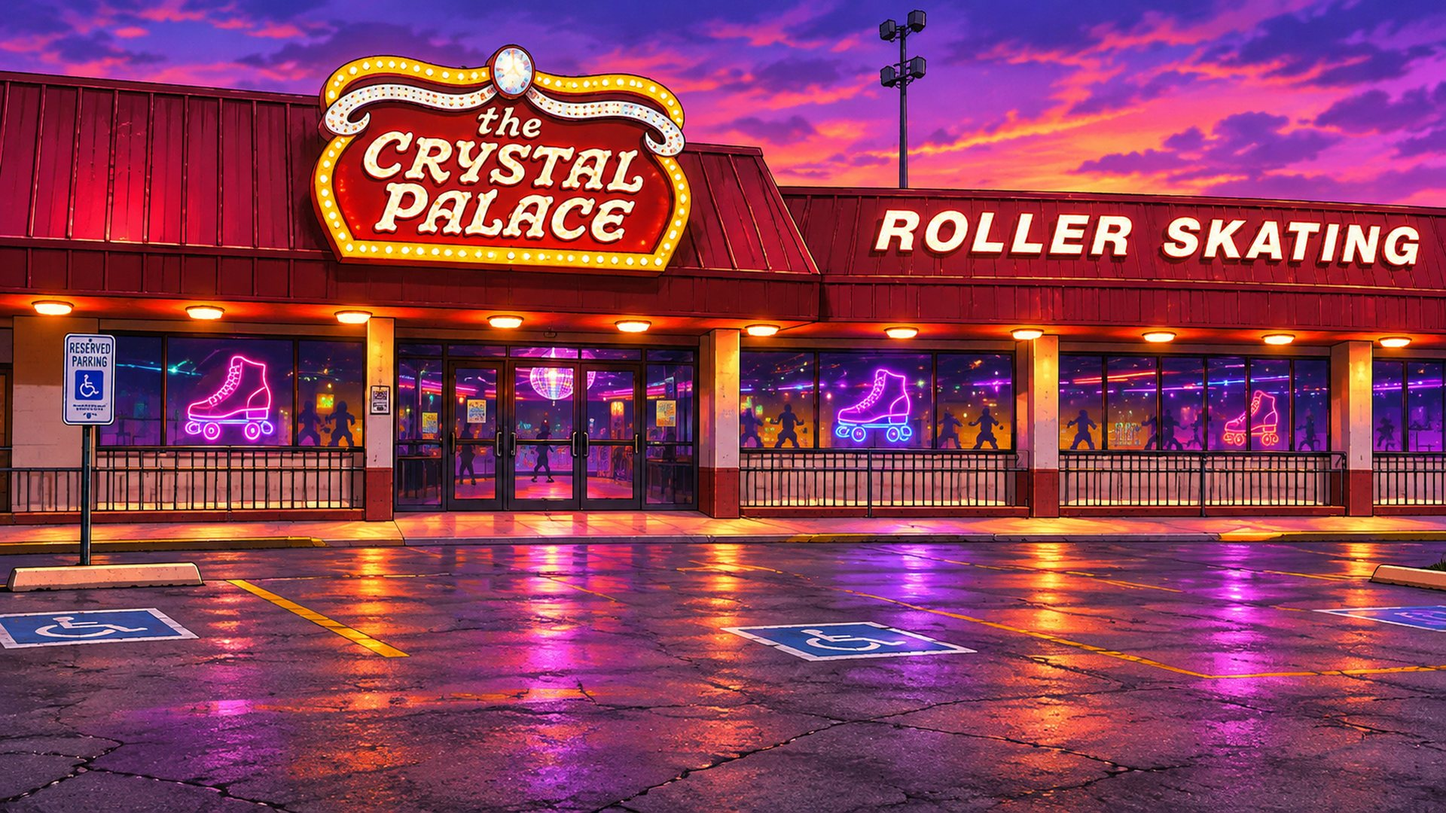
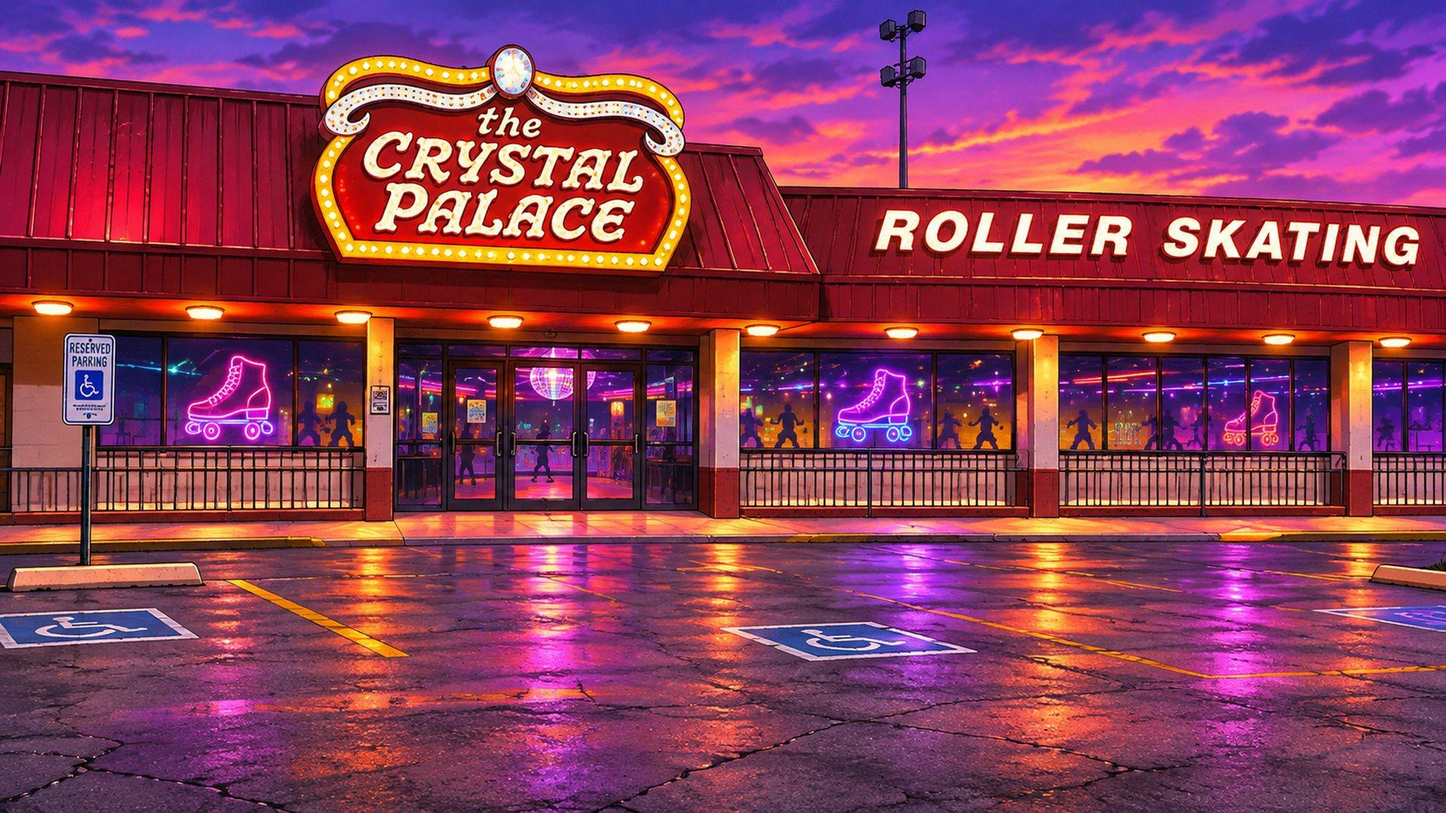
Add the Midsouth Brawler's victory animation and lighter stage art
Claude-Session: https://claude.ai/code/session_01WwqwATYTnd3bacYUNhD3vs

diff --git a/src/game.js b/src/game.js
@@ -154,7 +154,7 @@ const ROSTER = {
   // Atlas index guide: 0 relaxed | 1-2 stance | 3 cross | 4 hook wind-up | 5 grab lunge | 6-7 stance | 8-9 walk | 10 crouch/guard | 11 jump |
   // 12 stance | 13 jab | 14 cross | 15 hook wind-up | 16 hook swing | 17 recovery | 18 rope-whip pull | 19 elbow drop (air) | 20 elbow drop (landed) |
   // 21 knee crusher | 22 King's Drop (air) | 23 grab reach | 24 lift overhead | 25 body slam | 26 suplex | 27 piledriver | 28 knocked back | 29 lying.
-  // No block, hit or victory art yet: block uses the crouch guard, getting hit uses the code lean.
+  // No block or hit art yet: block uses the crouch guard, getting hit uses the code lean.
   brawler: {
     name: "BRAWLER", atlas: "brawler", size: 1.08, boss: true, takes: 0.58, deals: 1.15, style: "BOSS  ·  MEMPHIS HEAVYWEIGHT",
     anim: {
@@ -778,11 +778,12 @@ const VICTORY={
   crimson:{ cols:8, fps:10, fw:320, fh:320, order:[...seq(0,62), ...Array(8).fill(62), ...seq(61,1)] },
   afterhours:{ cols:7, fps:10, fw:320, fh:320, order:[...seq(0,38), ...Array(8).fill(38), ...seq(37,1)] },
   marcoss:{ cols:7, fps:8, fw:320, fh:320, order:[...seq(0,42), ...Array(8).fill(42), ...seq(41,1)] },
+  brawler:{ cols:6, fps:6, fw:320, fh:320, order:[...seq(0,35), ...Array(8).fill(35), ...seq(34,1)] },
   kom:{ cols:6, fps:6, fw:480, fh:270, order:[...seq(0,29), ...Array(8).fill(29), ...seq(28,1)], wide:true },
 };
 function drawResult(){
   const C=VW/2, w=match.winner, you=w===match.p1;
-  if(!VICTORY[w.key]){   // no victory clip yet (the boss): hold his portrait with a slow push-in
+  if(!VICTORY[w.key]){   // a fighter without a victory clip: hold the select portrait with a slow push-in
     const sp=IMG["win_"+w.key], z=1+.04*Math.min(1,(match.frame-match.resultStart)/240), dh=540*z, dw=dh*sp.width/sp.height;
     g.filter="blur(14px) brightness(.4)"; g.drawImage(sp,-20,-20,VW+40,580); g.filter="none"; g.drawImage(sp,(VW-dw)/2,(540-dh)/2,dw,dh);
     const gr=g.createLinearGradient(0,0,0,540); gr.addColorStop(0,"rgba(13,7,24,0)"); gr.addColorStop(.68,"rgba(13,7,24,0)"); gr.addColorStop(1,"rgba(13,7,24,.92)"); g.fillStyle=gr; g.fillRect(0,0,VW,540);
@@ -851,5 +852,5 @@ function loop(now){
   while(acc>=1000/60){ step(); for(const k in pressed) pressed[k]=false; acc-=1000/60; }
   render(); requestAnimationFrame(loop);
 }
-Promise.all([ load("crimson","assets/nicole-sprites.webp"), load("afterhours","assets/keelah-sprites.webp"), load("bg","assets/stage-beale-street.jpg"), load("kom","assets/kom-sprites.webp"), load("win_kom","assets/select-kom.jpg"), load("va_kom","assets/victory-kom.webp"), load("marcoss","assets/marcoss-sprites.webp"), load("brawler","assets/brawler-sprites.webp"), load("win_brawler","assets/select-brawler.jpg"), load("bg_palace","assets/stage-crystal-palace.jpg"), load("bg_coliseum","assets/stage-midsouth-coliseum.jpg"), load("win_marcoss","assets/select-marcoss.jpg"), load("va_marcoss","assets/victory-marcoss.webp"), load("win_crimson","assets/select-nicole.jpg"), load("win_afterhours","assets/select-keelah.jpg"), load("va_crimson","assets/victory-nicole.webp"), load("va_afterhours","assets/victory-keelah.webp") ])
+Promise.all([ load("crimson","assets/nicole-sprites.webp"), load("afterhours","assets/keelah-sprites.webp"), load("bg","assets/stage-beale-street.jpg"), load("kom","assets/kom-sprites.webp"), load("win_kom","assets/select-kom.jpg"), load("va_kom","assets/victory-kom.webp"), load("marcoss","assets/marcoss-sprites.webp"), load("brawler","assets/brawler-sprites.webp"), load("win_brawler","assets/select-brawler.jpg"), load("va_brawler","assets/victory-brawler.webp"), load("bg_palace","assets/stage-crystal-palace.jpg"), load("bg_coliseum","assets/stage-midsouth-coliseum.jpg"), load("win_marcoss","assets/select-marcoss.jpg"), load("va_marcoss","assets/victory-marcoss.webp"), load("win_crimson","assets/select-nicole.jpg"), load("win_afterhours","assets/select-keelah.jpg"), load("va_crimson","assets/victory-nicole.webp"), load("va_afterhours","assets/victory-keelah.webp") ])
   .then(()=>requestAnimationFrame(loop));

diff --git a/README.md b/README.md
@@ -74,7 +74,7 @@ The music and sound effects are synthesized in the browser with the Web Audio AP
 - Keelah now has her own block and hit art. Nicole and Marcoss still use code effects for getting hit.
 - Marcoss's standing punch and kick art was drawn from the waist up, so the atlas joins those frames onto legs from his stance frames.
 - KOM's punch and blast art was drawn from the thighs up, so the atlas joins those frames onto legs from his stance frame. His run, knockdown and crouch frames were drawn small and look softer than the rest.
-- The Midsouth Brawler has no block, hit-reaction or kick art yet: blocking uses his crouch guard and getting hit uses a code effect. He shows a still portrait instead of a victory animation.
+- The Midsouth Brawler has no block, hit-reaction or kick art yet: blocking uses his crouch guard and getting hit uses a code effect.
 - Two more fighters and one more boss are planned.
 - There is no two-player mode yet.
 
